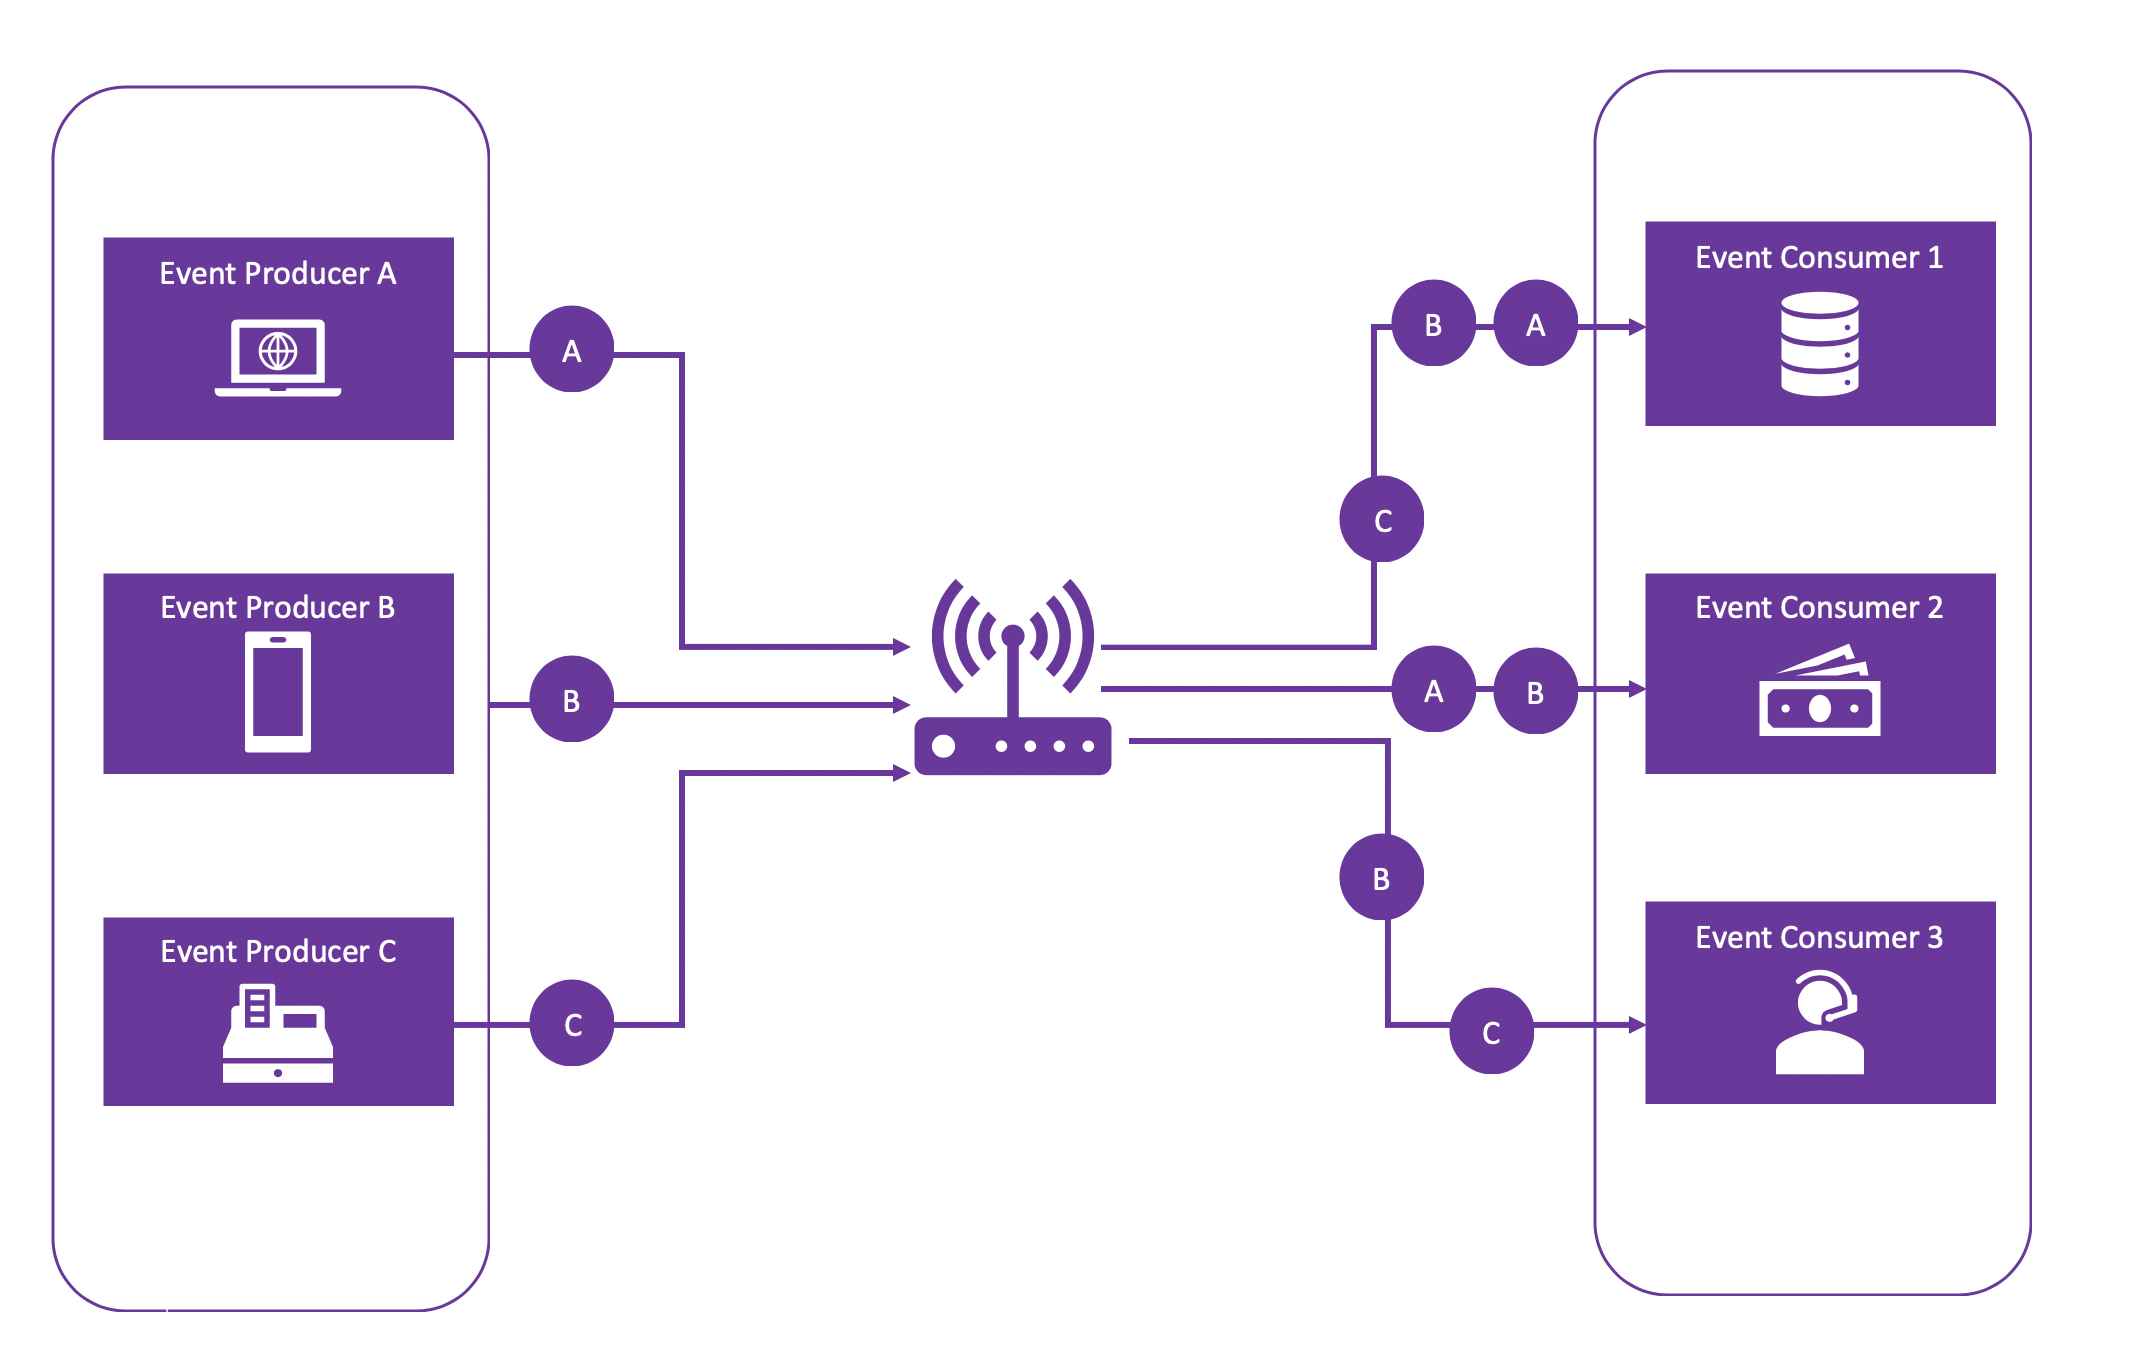
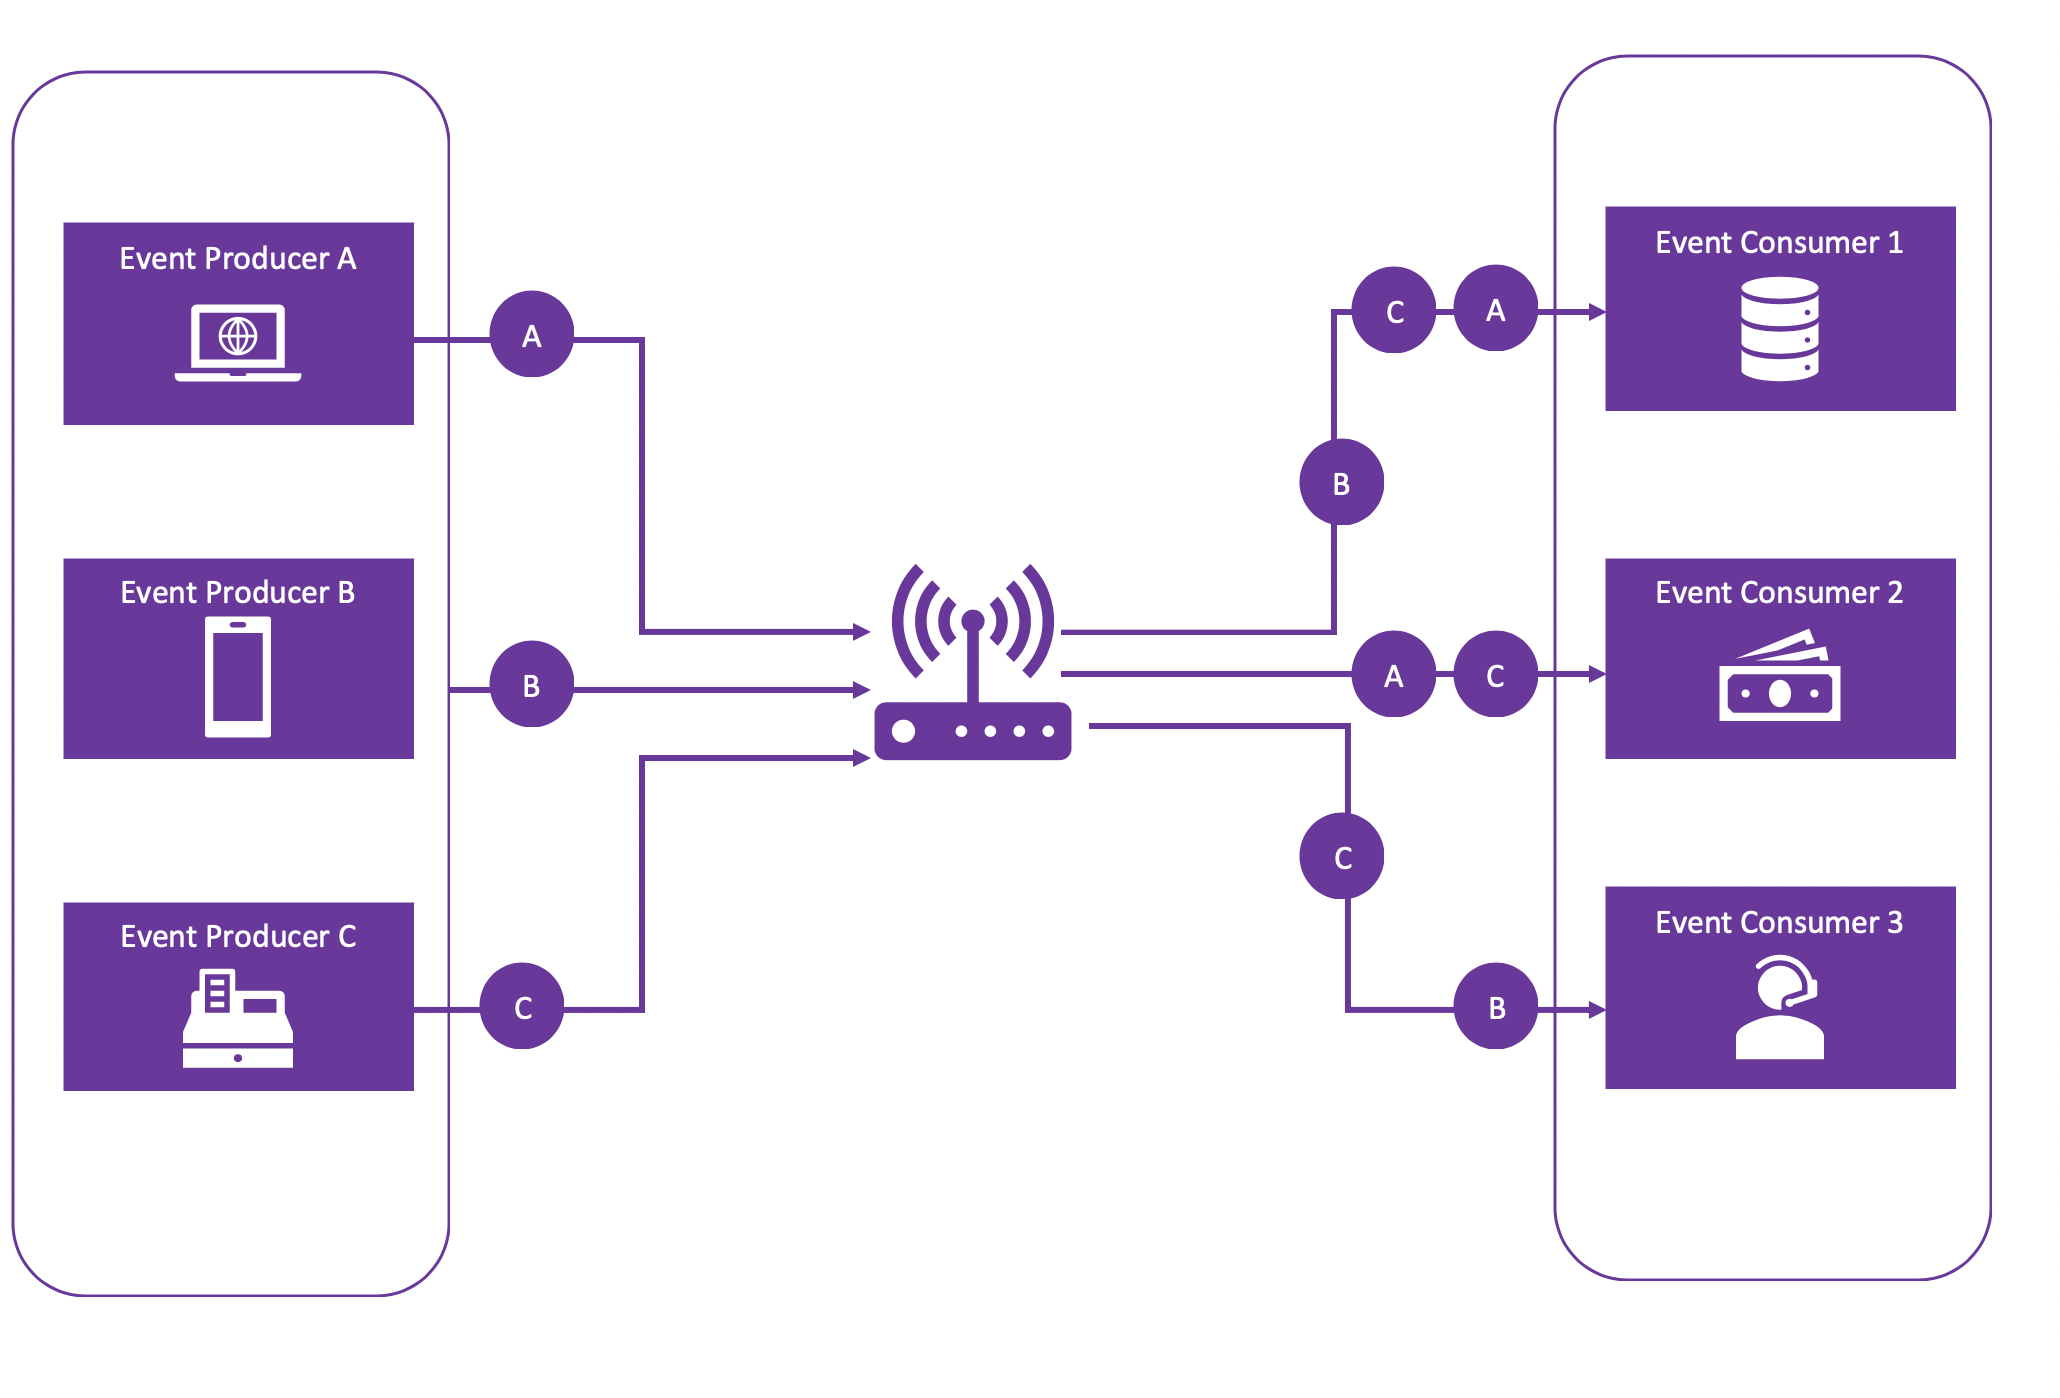
fix

diff --git a/docs/C.ModernizationPlaybook/Domain Driven Design/EventDrivenArchitecture.md b/docs/C.ModernizationPlaybook/Domain Driven Design/EventDrivenArchitecture.md
@@ -11,37 +11,37 @@ nav_order: 3
 
 Event Driven Architecture is best suited for:
 
- 1. Asynchronous Systems with an asynchronous flow of data:  Syncronous systems can be made asynchronous using messaging queues.
+ 1. **Asynchronous Systems with an asynchronous flow of data**:  Syncronous systems can be made asynchronous using messaging queues.
 
- 2. UI driven applications: For e.g., In applications that implement search, instead of having a server that is always running, a function can be implemented that responds to HTTP requests via an API gateway and reads from the database on demand.
+ 2. **UI driven applications**: For e.g., In applications that implement search, instead of having a server that is always running, a function can be implemented that responds to HTTP requests via an API gateway and reads from the database on demand.
 
- 3. Message Driven Applications: For e.g., A user centric application that redirects user requests as well as captures and logs the users activity such as a online advertisement system or a recommender system which has a lot of backend data processing. 
+ 3. **Message Driven Applications**: For e.g., A user centric application that redirects user requests as well as captures and logs the users activity such as a online advertisement system or a recommender system which has a lot of backend data processing. 
 
- 5. Event Driven Architectures using FaaS work well for high volume transactions, workloads that only happen every so often for eg: generating reports, image processing, or any scheduled tasks. 
+ 5. **Event Driven Architectures using FaaS** work well for high volume transactions, workloads that only happen every so often for eg: generating reports, image processing, or any scheduled tasks. 
  
- 6. Event Driven Architectures using Containers are seen as a better choice for synchronous, request–driven applications with multiple entry points.
+ 6. **Event Driven Architectures using Containers** are seen as a better choice for synchronous, request–driven applications with multiple entry points.
 
- 7. IoT applications
+ 7. **IoT applications**
 
 ## Considerations for choosing an Event Driven Architecture:
 
- 1. Agility: Within an Event Driven Architecture, components are loosely coupled,therefore, changes made to one component will not affect other components, thereby making frequent and continuous changes possible.
+ 1. **Agility**: Within an Event Driven Architecture, components are loosely coupled,therefore, changes made to one component will not affect other components, thereby making frequent and continuous changes possible.
 
- 2. Performance: Event Driven Architectures are ideal for parallel operation of Asynchronous events leading to a better performance.
+ 2. **Performance**: Event Driven Architectures are ideal for parallel operation of Asynchronous events leading to a better performance.
 
- 3. Scalability: Due to highly decoupled components, Event Driven Architectures scale well to large demand.
+ 3. **Scalability**: Due to highly decoupled components, Event Driven Architectures scale well to large demand.
 
- 4. Ease of Development: It is considered not that simple to develop an Event Driven Application due to its asynchronous pattern.
+ 4. **Ease of Development**: It is considered not that simple to develop an Event Driven Application due to its asynchronous pattern.
 
- 5. Testability: Testing components within an Event Driven Architecture is not simple since it would require special testing tools to mock the combination of events of and sequences.
+ 5. **Testability**: Testing components within an Event Driven Architecture is not simple since it would require special testing tools to mock the combination of events of and sequences.
 
- 6. Durability of your event source: Your event source should be reliable and guarantee delivery if you need to process every single event. 
+ 6. **Durability of your event source**: Your event source should be reliable and guarantee delivery if you need to process every single event. 
 
- 7. Performance control requirements: Your application should be able to handle the asynchronous nature of event routers. 
+ 7. **Performance control requirements**: Your application should be able to handle the asynchronous nature of event routers. 
 
- 8. Event flow tracking: Event flows or streams are difficult to track making it hard for developers to find the root cause of a bug or a performance bottleneck.
+ 8. **Event flow tracking**: Event flows or streams are difficult to track making it hard for developers to find the root cause of a bug or a performance bottleneck.
 
- 9. Data in your event source: If you need to rebuild state, your event source should be deduplicated and ordered.
+ 9. **Data in your event source**: If you need to rebuild state, your event source should be deduplicated and ordered.
 
 
 

diff --git a/docs/C.ModernizationPlaybook/Domain Driven Design/TypesofEventDrivenProcesses.md b/docs/C.ModernizationPlaybook/Domain Driven Design/TypesofEventDrivenProcesses.md
@@ -16,23 +16,24 @@ Reactive systems follow a publisher-subscriber model , where the event producer 
 
 For example, in the above diagram, if we are talking about a hotel booking system for a given popular hotel in the peak of summer:
 
-Event A is to cancel a booking
-Event B is to query if there is an availability
-Event C is to book a new room
+- **Event A** is to cancel a booking
+- **Event B** is to query if there is an availability
+- **Event C** is to book a new room
 
-Event Consumer 1 is the hotel database
-Event Consumer 2 is the booking and payment system
-Event Consumer 3 is customer service
+<br />
+- *Event Consumer 1* is the hotel database
+- *Event Consumer 2* is the booking and payment system
+- *Event Consumer 3* is customer service
 
 Then,
 
   The event router would ingest, filter and route requests in the following way:
 
-  Event Consumer 1 would recieve the cancellation event first (A), new booking next (B) and the query (C) third in order. All three events require access to the database, so Event Consumer 1 will be triggered by all events.
+  *Event Consumer 1* would recieve the cancellation event first (**A**), new booking next (**C**) and the query (**B**) third in order. All three events require access to the database, so Event Consumer 1 will be triggered by all events.
 
-  Event Consumer 2 would recieve the new order first (A) and then the cancellation. Note that this consumer will not be triggered by event C, since the booking and payment service need not be called when the user is just querying for availability. 
+  *Event Consumer 2* would recieve the new order first (**C**) and then the cancellation(**A**). Note that this consumer will not be triggered by **event B**, since the booking and payment service need not be called when the user is just querying for availability. 
 
-  Event Consumer 3, that is the customer service will be triggered to answer to the query and then respond to the new order.
+  *Event Consumer 3*, that is the customer service will be triggered to answer to the query(**B**) and then respond to the new order(**C**).
 
 ## Stream Processing Systems
 
